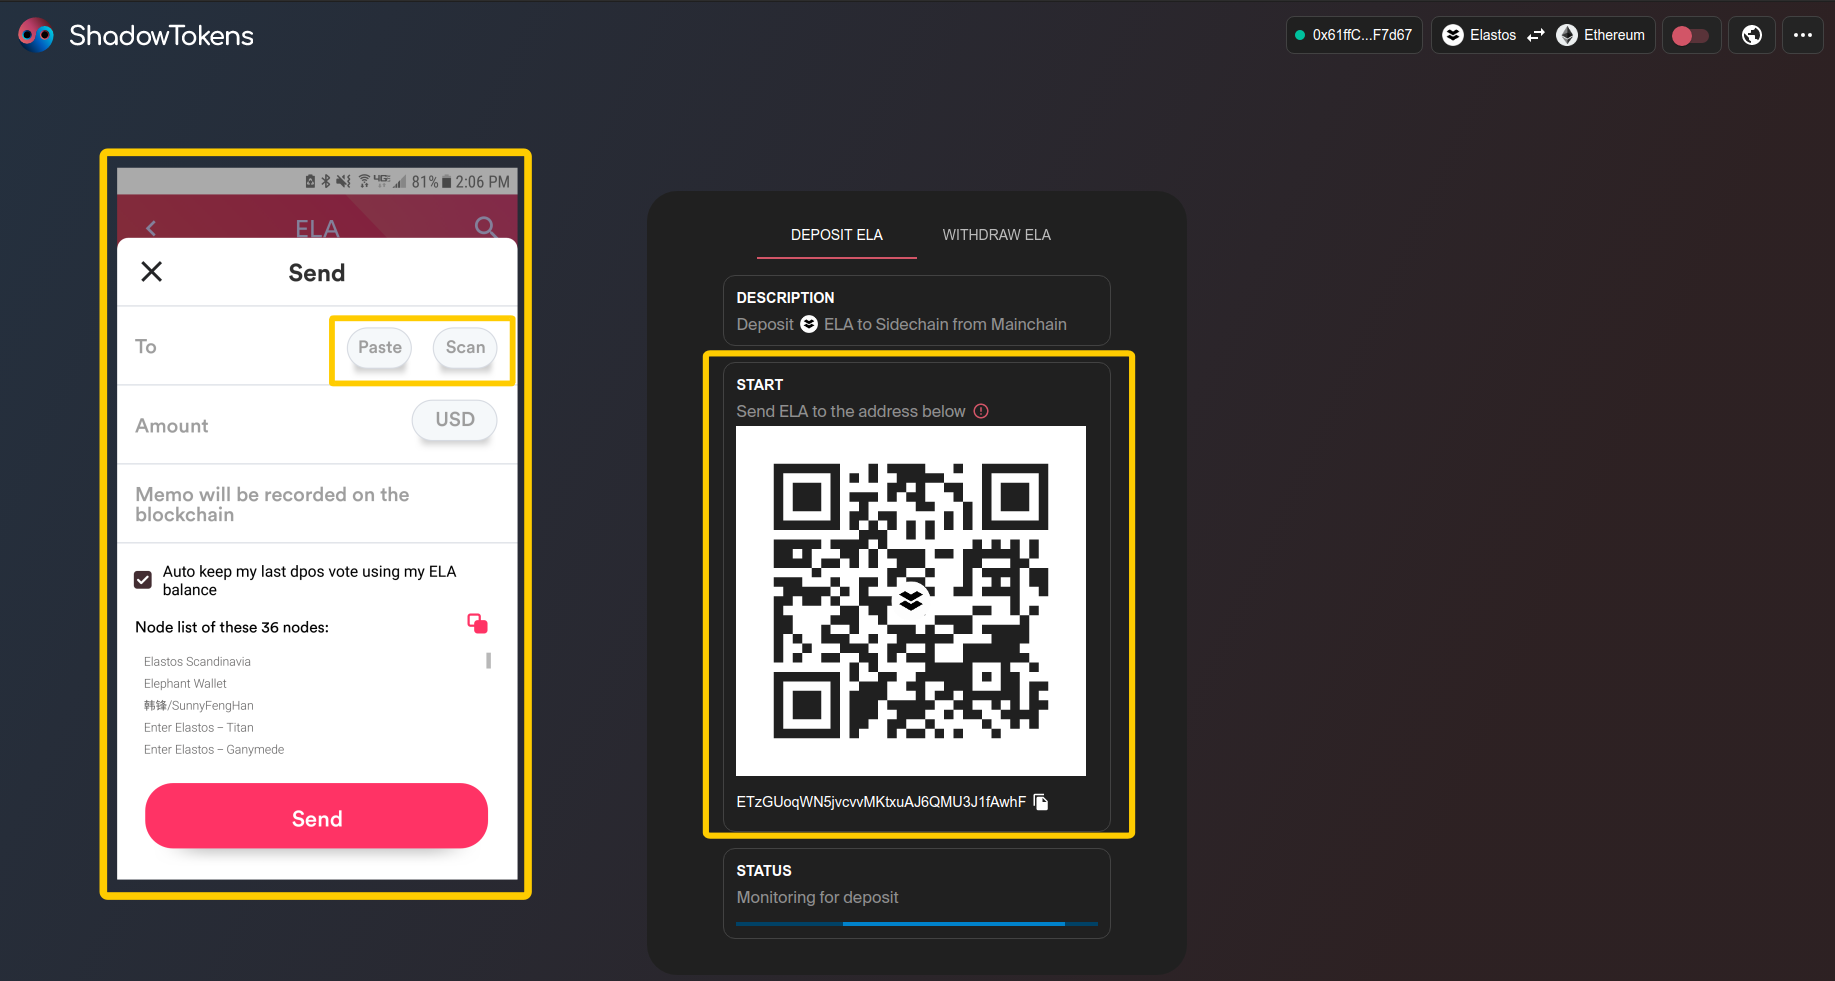
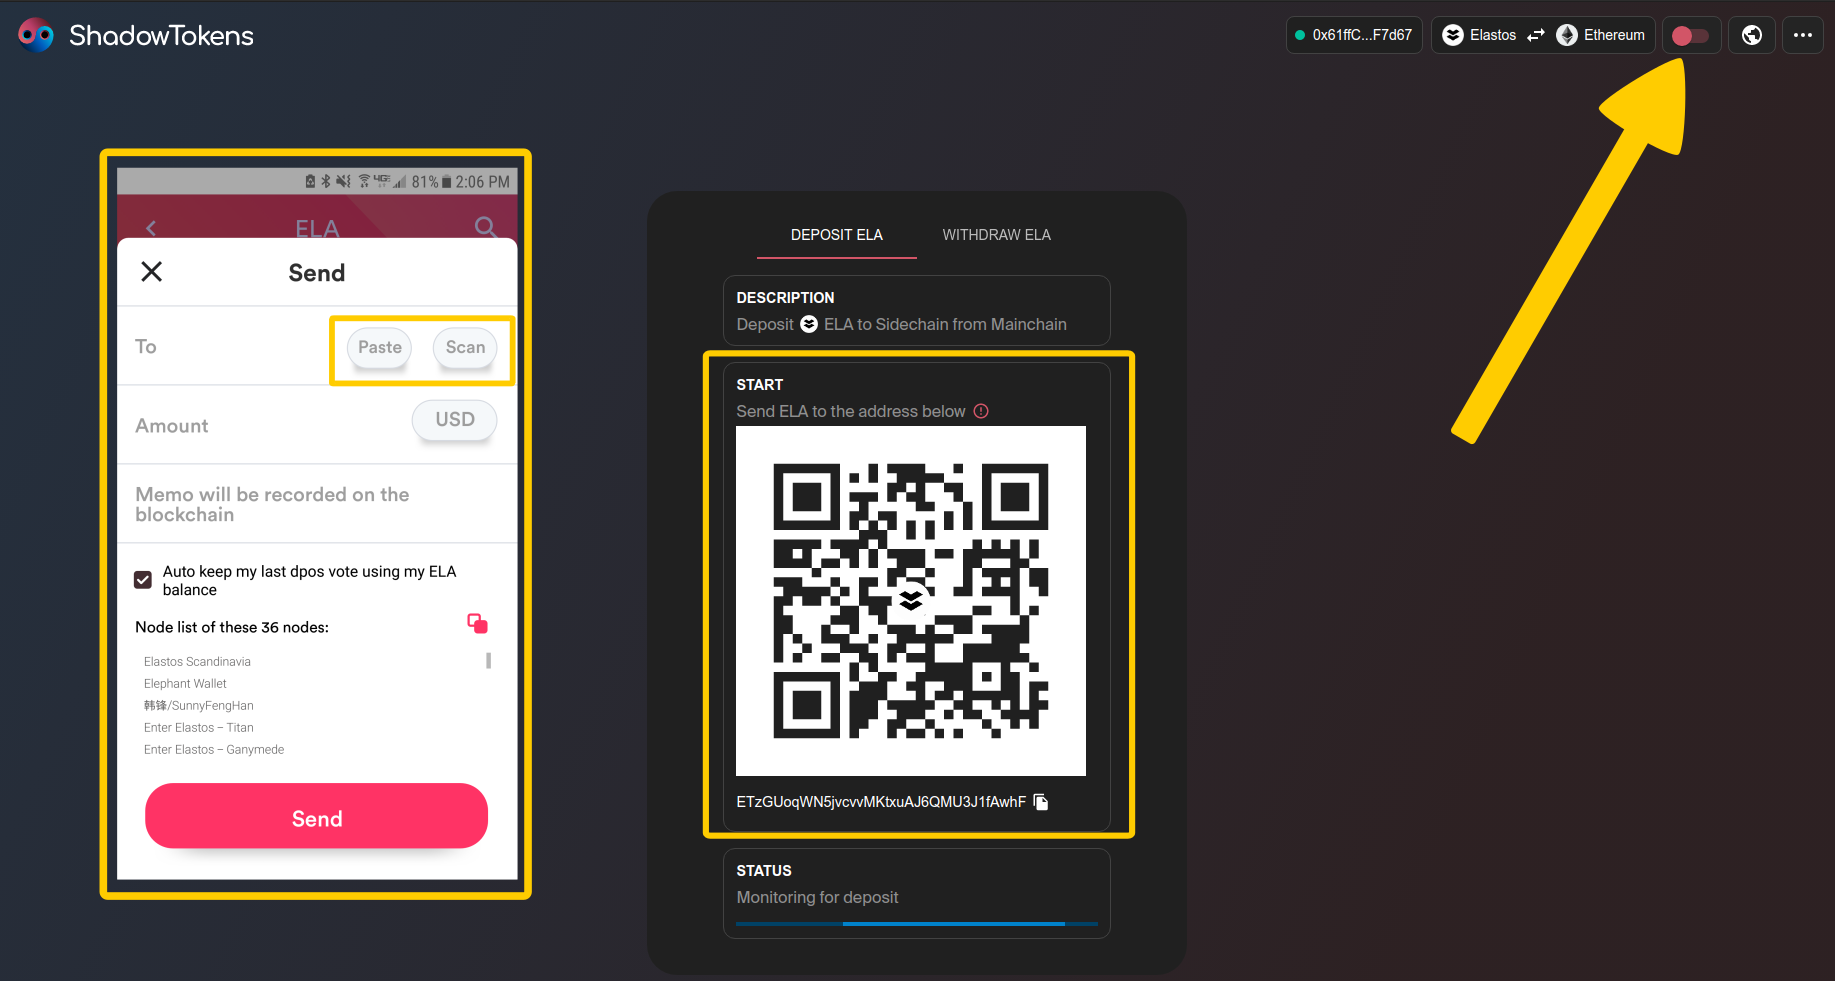
update README

Changed region(s): [[0.7766, 0.0612, 0.9319, 0.4587]]

diff --git a/README.md b/README.md
@@ -64,7 +64,7 @@ You should now have some ELA in your wallet on the Ethereum chain. To view this,
 
 To view the ELA that you minted on Ethereum, click the 'ETH' dropdown menu to open the default token list. 
 
-*Note: This is also where you can add custom tokens by pasting the token contract address in the search field.
+*Note: This is also where you can add custom tokens by pasting the token contract address in the search field.*
 
 ![shadowtokens_github](/src/assets/docs/9.png)
 
@@ -75,6 +75,31 @@ To return your ELA on Ethereum back to Elastos, simply repeat the same process a
 That's it. You can now repeat this process to bridge any token between the Elastos and Ethereum ecosystems. Enjoy!
 
 
-## How to Fund the Elastos Smart Contract Chain
+## How to Fund the Elastos Smart Contract Sidechain
 
-Todo
+The deposit and withraw tool may be found by toggling the switch in the toolbar (see the arrow picutured below).
+
+### Deposit
+
+To deposit ELA to the sidechain, send native ELA to the address generated by scanning the QR code or pasting in the address provided to your wallet of choice.
+
+![shadowtokens_github](/src/assets/docs/sidechain_1.png)
+
+*Note: This address is one time use only. Do not send multiple payments to this address or you may risk losing your funds.*
+
+It may take a few minutes for the transaction to confirm and register the deposit. Once it does, the next page will appear. There are no more actions required. Simply wait for the deposit to complete. It may take 10-15 minutes for larger transfers.
+
+![shadowtokens_github](/src/assets/docs/sidechain_2.png)
+
+
+### Withdraw
+
+To withdraw ELA from the sidechain select the 'Withdraw' tab, enter the amount you want to withdraw from your MetaMask wallet, and the mainchain address where you want to receive your ELA. 
+
+![shadowtokens_github](/src/assets/docs/sidechain_3.png)
+
+*Note: CryptoName is supported in the address field, so if you own one, just type in your name.*
+
+That's it. Watch the prompts to monitor your withdrawal progress. 
+
+![shadowtokens_github](/src/assets/docs/sidechain_4.png)
